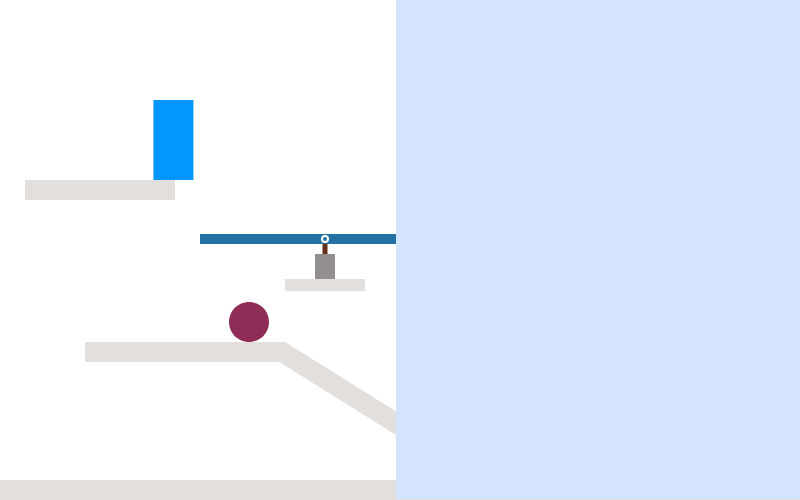
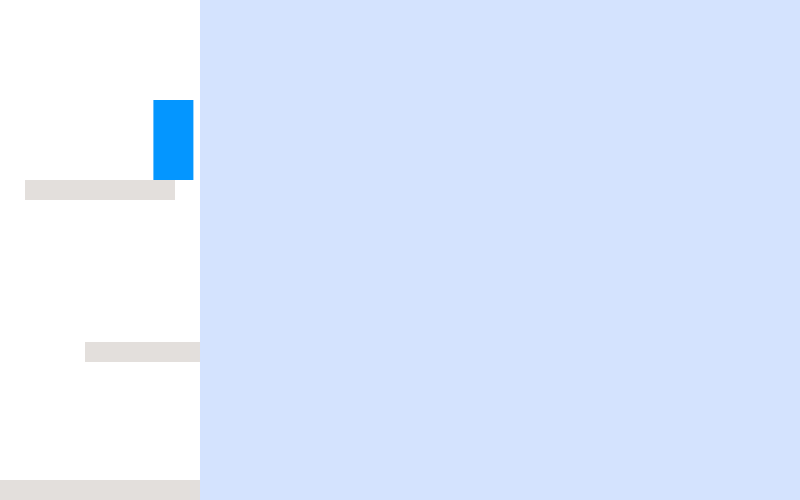
added seesaw, updated obscured images

Changed region(s): [[0.25, 0.0, 1.0, 1.0]]

diff --git a/stimuli/03_elements.js b/stimuli/03_elements.js
@@ -98,7 +98,7 @@ wallsIf1 = function(side, horiz, prior, exhaustive){
   }
   let base_walls = [dat.w_up, ramp.wall_bottom].concat(wall_exhaustive);
   return {walls: base_walls.concat([ramp_top,ramp.tilted, base_ssw, ssw.skeleton]),
-          dynamic: [ramp.ball]}//, ssw.plank, ssw.constraint]}
+          dynamic: [ramp.ball, ssw.plank, ssw.constraint]}
 }
 
 seesawIf2 = function(prior, dir, side_ramp, offset=PROPS.seesaw.d_to_walls){

diff --git a/stimuli/01_config.js b/stimuli/01_config.js
@@ -8,7 +8,7 @@ var ANIM_ANSWERS = "sliders"
 // var ANIM_ANSWERS = "buttons"
 
 const SCENE = {w: 800, h: 500};
-PROPS = {'blocks': {'w':40, 'h': 60},
+PROPS = {'blocks': {'w':40, 'h': 80},
          'walls': {'w': 200, 'h': 20},
          'balls': {'radius': 20, 'move_to_roll': 4},
          'bottom': {'w': SCENE.w, 'h': 20},
